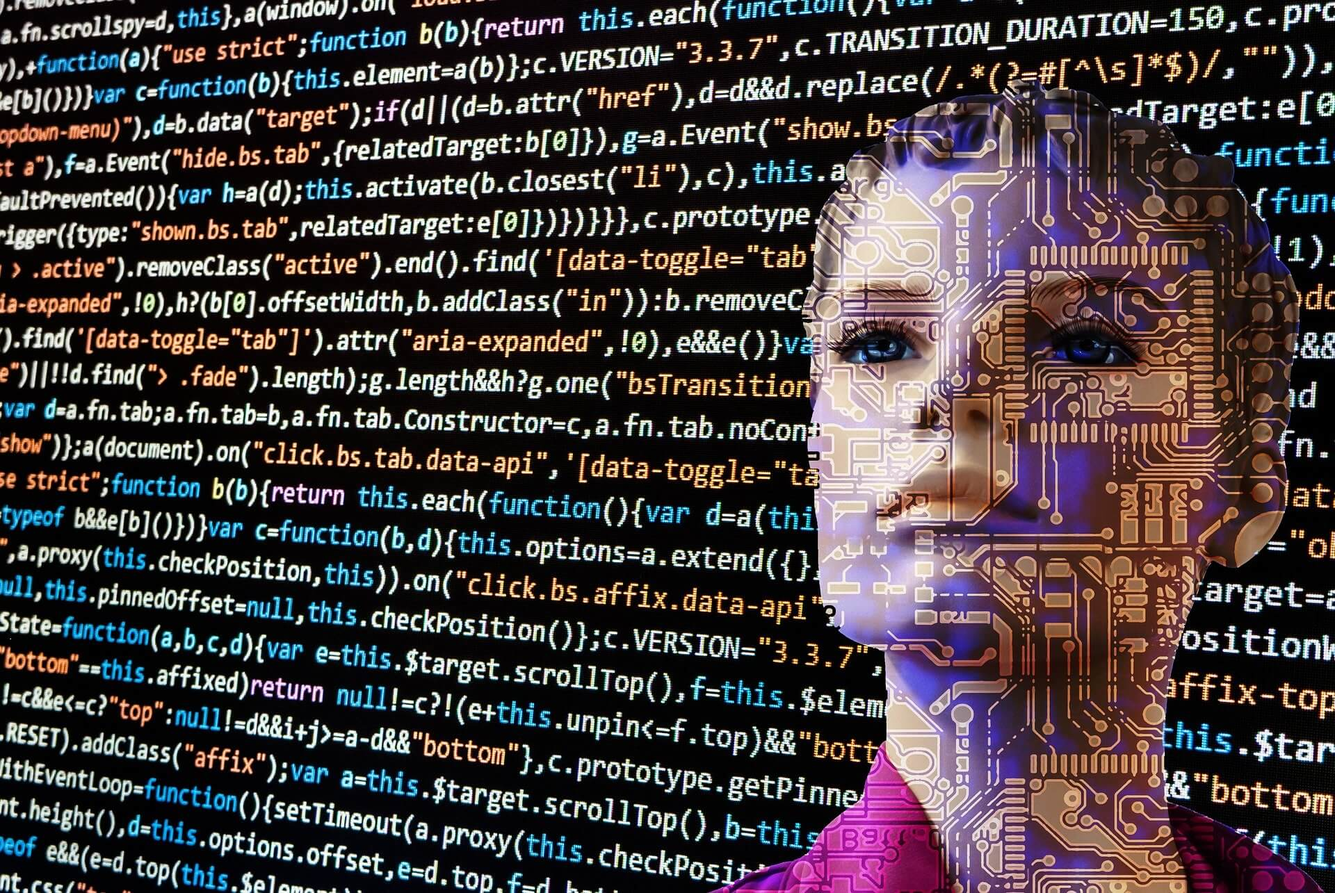
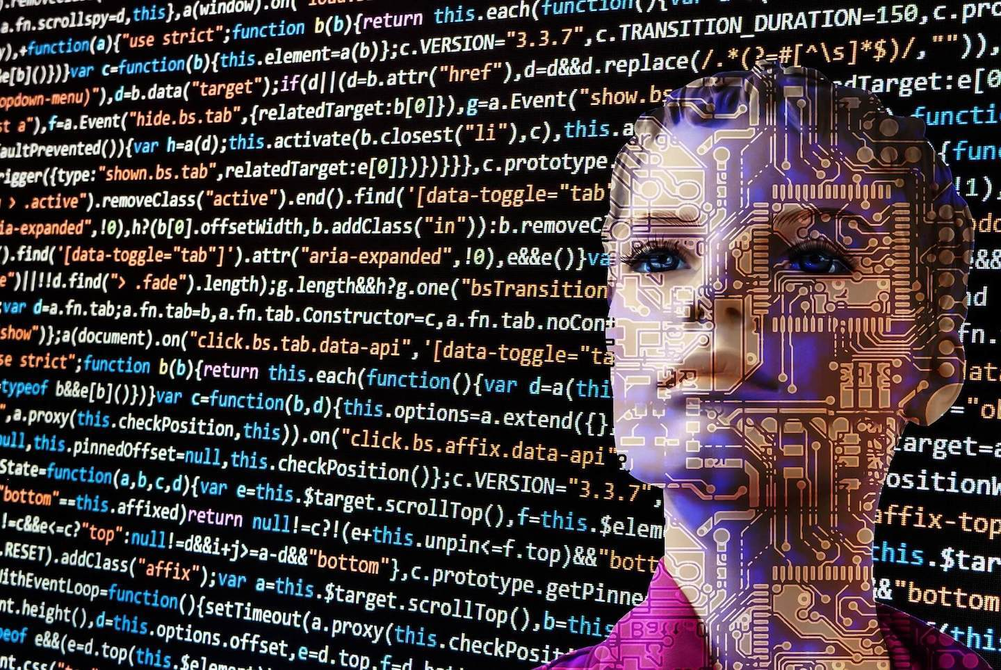
Resize images

diff --git a/index.html b/index.html
@@ -233,7 +233,7 @@
 								<span class="text-muted">Front & Backend</span>
 							</a>
 						</div>
-						<img src="assets/img/photos/coding-computer.webp" alt="">						
+						<img src="assets/img/photos/coding-computer.jpg" alt="">						
 					</div>
 				</div>
 			</div>
@@ -248,7 +248,7 @@
 								<span class="text-muted"></span>
 							</a>
 						</div>
-						<img src="assets/img/photos/artificial-intelligence.webp" alt="">						
+						<img src="assets/img/photos/artificial-intelligence.jpg" alt="">						
 					</div>
 				</div>
 			</div>
@@ -278,7 +278,7 @@
 								<span class="text-muted"></span>
 							</a>
 						</div>
-						<img src="assets/img/photos/elec_layout.webp" alt="">						
+						<img src="assets/img/photos/elec_layout.jpg" alt="">						
 					</div>
 				</div>
 			</div>
@@ -293,7 +293,7 @@
 								<span class="text-muted">Software & Hardware</span>
 							</a>
 						</div>
-						<img src="assets/img/photos/test.webp" alt="">						
+						<img src="assets/img/photos/test.jpg" alt="">						
 					</div>
 				</div>
 			</div>

diff --git a/index_se.html b/index_se.html
@@ -229,7 +229,7 @@
 								<span class="text-muted">Front & Backend</span>
 							</a>
 						</div>
-						<img src="assets/img/photos/coding-computer.webp" alt="">						
+						<img src="assets/img/photos/coding-computer.jpg" alt="">						
 					</div>
 				</div>
 			</div>
@@ -244,7 +244,7 @@
 								<span class="text-muted"></span>
 							</a>
 						</div>
-						<img src="assets/img/photos/artificial-intelligence.webp" alt="">						
+						<img src="assets/img/photos/artificial-intelligence.jpg" alt="">						
 					</div>
 				</div>
 			</div>
@@ -274,7 +274,7 @@
 								<span class="text-muted"></span>
 							</a>
 						</div>
-						<img src="assets/img/photos/elec_layout.webp" alt="">						
+						<img src="assets/img/photos/elec_layout.jpg" alt="">						
 					</div>
 				</div>
 			</div>
@@ -289,7 +289,7 @@
 								<span class="text-muted">Software & Hardware</span>
 							</a>
 						</div>
-						<img src="assets/img/photos/test.webp" alt="">						
+						<img src="assets/img/photos/test.jpg" alt="">						
 					</div>
 				</div>
 			</div>
